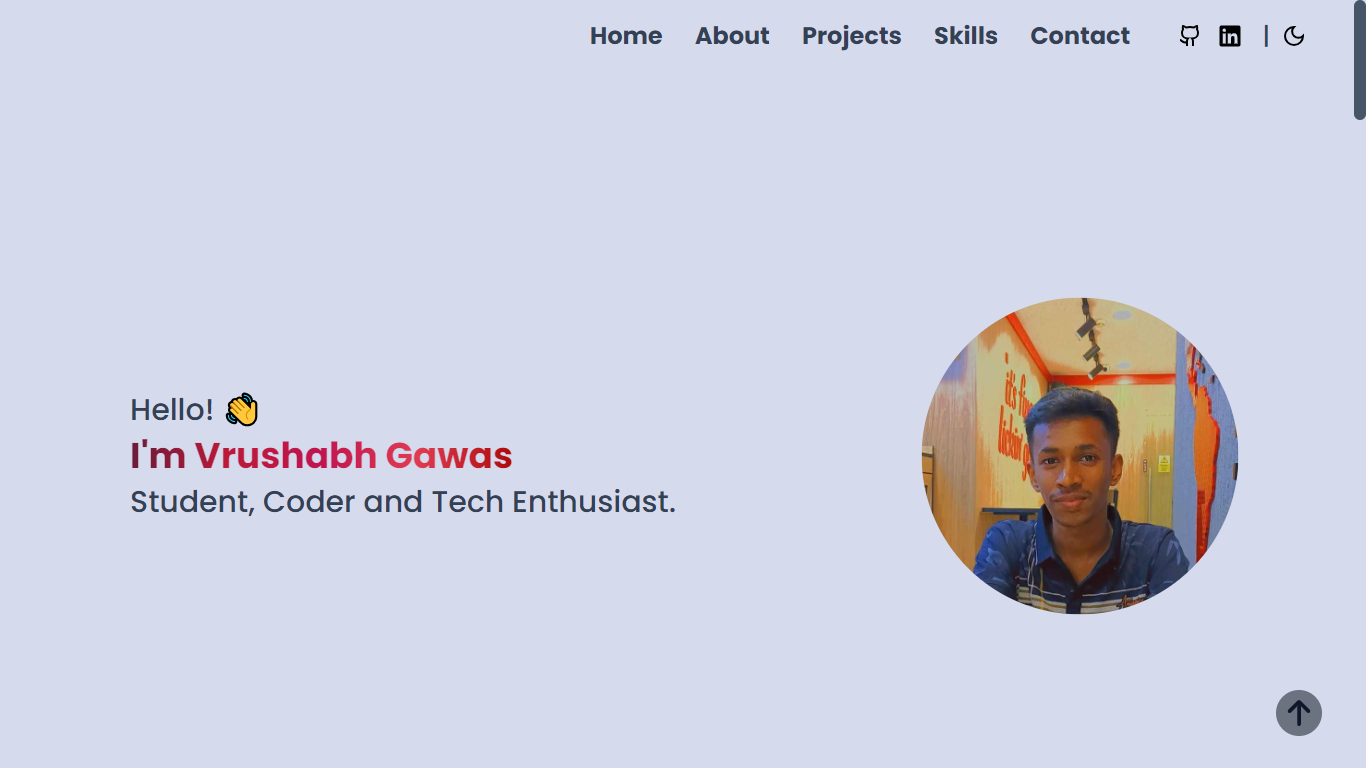
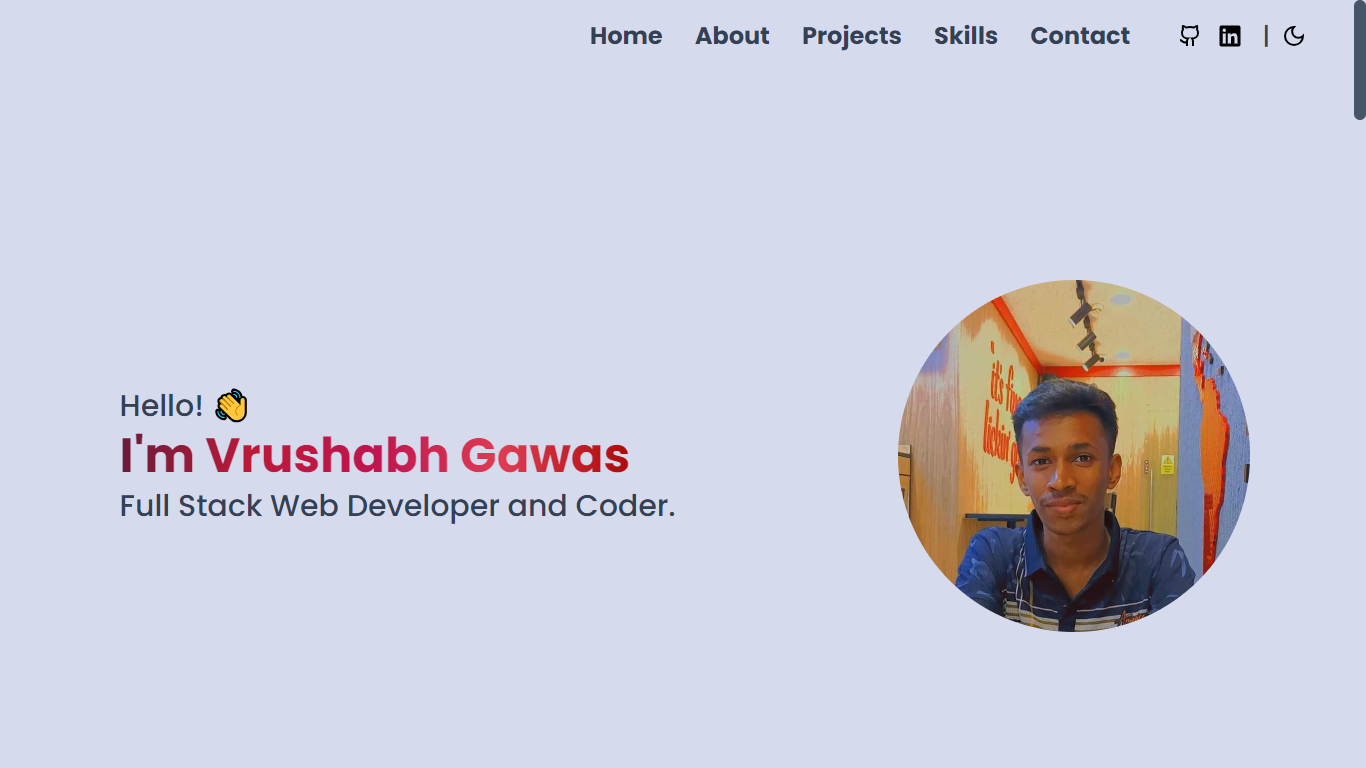
Udated Text and pic size

Changed region(s): [[0.6457, 0.3438, 0.9224, 0.8438], [0.0922, 0.5, 0.4919, 0.6875], [0.9224, 0.9062, 0.9839, 0.9688]]

diff --git a/src/pages/Home.tsx b/src/pages/Home.tsx
@@ -13,12 +13,12 @@ export const Home = () => {
         </div>
         <div className="flex flex-col items-start sm:items-center text-3xl sm:text-2xl sm:mx-8 sm:my-16 sliding-text">
           <div>Hello! 👋</div>
-          <div className="text-4xl sm:text-[30px] py-2 font-semibold">
+          <div className="text-5xl sm:text-[30px] py-2 font-semibold">
             I'm Vrushabh Gawas
           </div>
-          <div className="text-center">Student, Coder and Tech Enthusiast.</div>
+          <div className="text-center">Full Stack Web Developer and Coder.</div>
         </div>
-        <div className="w-72 sm:hidden">
+        <div className="w-80 sm:hidden">
           <ProfileImage />
         </div>
       </div>

diff --git a/public/index.html b/public/index.html
@@ -12,8 +12,8 @@
       name="keywords"
       content="Vrushabh Gawas, React, Web Developer, BSc IT, Portfolio, Website"
     />
-    <meta name="author" content="Vrushabh Gawas" />
-    <title>Vrushabh Gawas</title>
+    <meta name="author" content="Vrushabh Gawas | Full Stack Developer" />
+    <title>Vrushabh Gawas | Portfolio</title>
 
     <!-- Open Graph -->
     <meta property="og:title" content="Portfolio of Vrushabh Gawas" />
